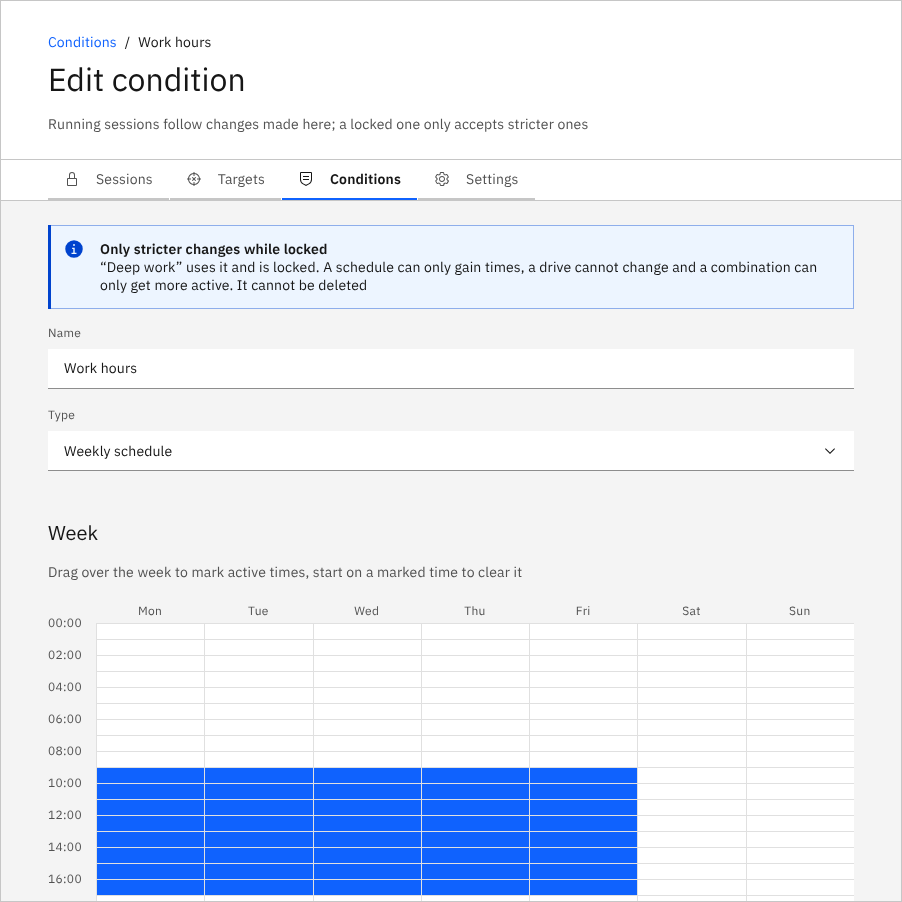
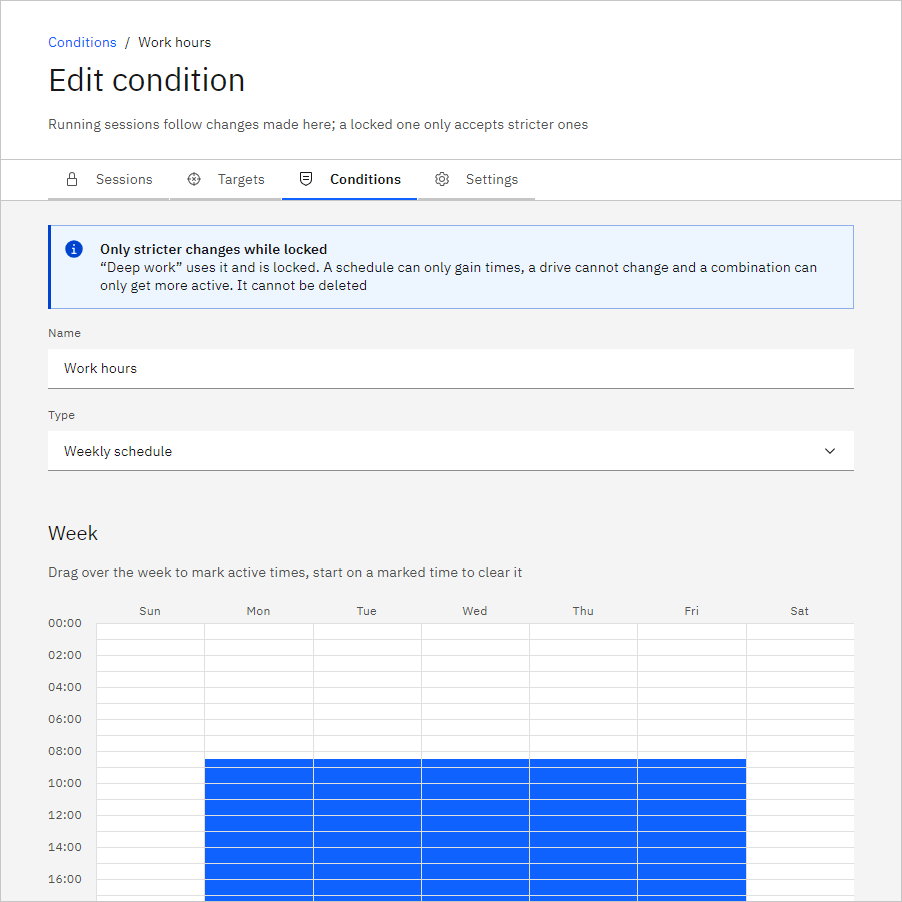
Releases from tags, update notes, retaken screenshots
- CI: a v* tag builds as that version and publishes the installer on the
  Releases page.
- README: how to update (export, uninstall, install, import).
- Installer: current wording in the uninstall refusal and the description.
- docs/: screenshots retaken (Sunday-first week, Steam Browser action).

diff --git a/AGENTS.md b/AGENTS.md
@@ -80,7 +80,7 @@ The UI is built from tables, so these need no new markup:
 - Check UI changes in a browser: serve `src/` (`python3 -m http.server`) and open `index.html` in Playwright's Chromium with a stand-in `window.__TAURI__`; check 456 px and wide, light and dark. `node --check` the scripts after edits.
 - The README's pictures are files directly in `docs/` (no subfolder): `sessions.png`, `target-editor.png` and `condition-editor.png` are taken in the browser as above, and replaced there when the window changes; `smart-screen.png` is Windows' own warning for the unsigned installer, not generated.
 - From Linux: `scripts/linux-tests/clippy-windows.sh` lints the Windows build as CI does, and `cargo test` in `scripts/linux-tests` runs every platform-free module's tests (built from `src-tauri/src` with stand-ins).
-- CI (`.github/workflows/build.yml`): `cargo fmt --check`, `cargo clippy --all-targets -- -D warnings`, `cargo test`, then the installer as an artifact. `cargo check --release` must stay warning-free.
+- CI (`.github/workflows/build.yml`): `cargo fmt --check`, `cargo clippy --all-targets -- -D warnings`, `cargo test`, then the installer as an artifact; a `v*` tag also publishes it on the Releases page, built as that version (the tag is written into `tauri.conf.json`, `Cargo.toml` and `package.json` for the build; nothing is committed). `cargo check --release` must stay warning-free.
 
 **Always pursue full test coverage.** Every change comes with tests for what it does: each branch, each error, each message a person reads. Measure with `cargo llvm-cov --manifest-path scripts/linux-tests/Cargo.toml --summary-only -- --skip only_the_installed_app --skip the_app_of_a_program`. What cannot be unit-tested (Win32, UI Automation, the window, the network) is kept thin, with its decisions pulled into tested functions. Tests use no internet, no real service and no files outside the temp folder, and set time with the session's clock instead of waiting.
 

diff --git a/README.md b/README.md
@@ -42,6 +42,8 @@ A target acts by what its lists hold: pages of blocked sites are closed wherever
 
 Download the installer from the [Releases](../../releases) page and run it (it needs administrator rights, as it installs a service). Bullseye starts in the tray: click its icon to open the window. Uninstalling is refused while a session is locked.
 
+**To update**, export your settings first (**Export** in Settings), uninstall, install the new version and import them again: uninstalling removes everything Bullseye keeps, and there is no in-place update.
+
 **Windows may say "Windows protected your PC".**
 
 <img src="docs/smart-screen.png" alt="The Windows SmartScreen warning: Windows protected your PC" width="400">
